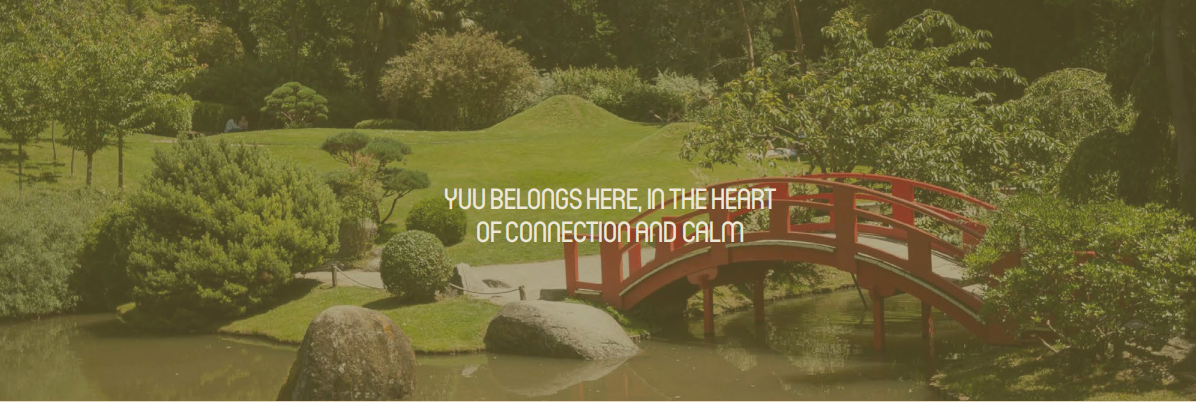
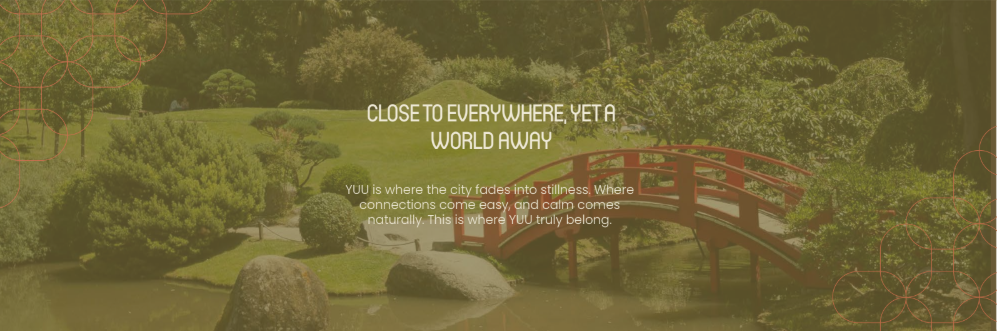
location page done

diff --git a/src/components/Location/index.js b/src/components/Location/index.js
@@ -1,109 +1,159 @@
-import React, { useState, useEffect } from "react";
-
-const heroImages = [
-  "/images/location-banner.png",
-  "/images/Hero.png",
-  "/images/Hero-2.png",
-];
-
-const heroTitles = [
-  "DISCOVER THE WORLD OF YUU",
-  "YUU BY NAHAR",
-  "EXPERIENCE LUXURY LIVING",
-];
+import React from "react";
 
 const HeroCarousel = () => {
-  const [currentIndex, setCurrentIndex] = useState(0);
-
-  // Auto-advance every 5 seconds
-  useEffect(() => {
-    const interval = setInterval(() => {
-      setCurrentIndex((prev) => (prev + 1) % heroImages.length);
-    }, 5000);
-    return () => clearInterval(interval);
-  }, []);
-
-  // Manual pill click
-  const handlePillClick = (idx) => setCurrentIndex(idx);
-
   return (
     <div
-      className="relative w-full h-[70vh] md:h-[80vh] flex items-center justify-center overflow-hidden"
+      className="relative w-full h-[100vh] md:h-[80vh] flex items-center justify-center overflow-hidden"
       style={{
-        backgroundImage: `url(${heroImages[currentIndex]})`,
+        backgroundImage: `url(/images/location-banner.png)`,
         backgroundSize: "cover",
         backgroundPosition: "center",
       }}
     >
       {/* Overlay for better text visibility */}
-      <div className="absolute inset-0 bg-orange-50 bg-opacity-25 z-10" />
-      {/* Title */}
-      <h1
-        className="z-20 text-white text-3xl md:text-5xl font-bold text-center w-full px-4"
-        style={{ letterSpacing: "2px" }}
-      >
-        {heroTitles[currentIndex]}
-      </h1>
-      {/* Pills */}
-      <div className="absolute left-6 bottom-6 flex gap-2 z-20">
-        {heroImages.map((_, idx) => (
-          <button
-            key={idx}
-            className={`w-6 h-2 rounded-full transition-all duration-300 border border-white ${
-              currentIndex === idx ? "bg-white" : "bg-transparent"
-            }`}
-            onClick={() => handlePillClick(idx)}
-            aria-label={`Go to slide ${idx + 1}`}
-          />
-        ))}
+      <div className="absolute inset-0 bg-black bg-opacity-20 z-10" />
+
+      {/* Main content container */}
+      <div className="relative z-20 text-center px-4 max-[768px]:px-6 w-full max-w-6xl mt-[200px]">
+        {/* Main title */}
+        <h1
+          className="text-white text-4xl md:text-6xl lg:text-7xl font-bold mb-4 max-[768px]:text-3xl"
+          style={{ letterSpacing: "3px" }}
+        >
+          YUU BELONG HERE
+        </h1>
+
+        {/* Subtitle */}
+        <p
+          className="text-white text-lg md:text-xl lg:text-2xl mb-8 max-[768px]:text-base"
+          style={{ letterSpacing: "1px" }}
+        >
+          Right Where Calm Meets Connection
+        </p>
+
+        {/* Description box */}
+        <div className="max-w-2xl mt-[150px] mx-auto">
+          <div className="bg-transparent  border border-white border-opacity-30 rounded-full p-6 md:p-8 max-[768px]:p-4">
+            <p className="text-white text-sm md:text-base lg:text-lg leading-relaxed max-[768px]:text-[10px]">
+              At YUU, location goes beyond coordinates. It's that quiet sense of
+              arriving home. Tucked into the evolving heart of Chandivali, YUU
+              is placed just right, close to the action, but far enough to let
+              you breathe.
+            </p>
+          </div>
+        </div>
       </div>
     </div>
   );
 };
 
 const LocationAbout = () => (
-  <section className="relative pb-20 w-full bg-[#fdf7f0] flex flex-row max-[768px]:flex-col items-center justify-between px-4 max-[768px]:px-6 pt-52 max-[768px]:pt-10 max-[768px]:pb-[200px] overflow-visible">
-    {/* Illustration */}
-    <div className="w-2/5 max-[768px]:w-full flex justify-end max-[768px]:justify-center relative  max-[768px]:mt-10">
-      <div className="w-[500px] max-w-[600px] max-[768px]:w-[80vw] max-[768px]:max-w-[400px] relative z-10 -mt-32 max-[768px]:-mt-0">
-        <img
-          src="/images/location-1.png"
-          alt="Location Illustration"
-          className="w-full h-auto rounded-3xl shadow-lg border-4 border-[#f6f2e7] object-cover"
-          style={{ objectFit: "contain" }}
-        />
-      </div>
-    </div>
-    {/* Text Content */}
-    <div className="w-1/2 max-[768px]:w-full z-20">
-      <div className="border-r-4 border-[#a97c6d] pl-8 max-[768px]:pl-4">
+  <section className="relative w-full bg-[#fdf7f0] flex flex-row max-[768px]:flex-col items-center justify-between px-8 max-[768px]:px-6 py-16 max-[768px]:py-10">
+    {/* Text Content - Left Side */}
+    <div className="w-1/2 max-[768px]:w-full z-20 pr-8 max-[768px]:pr-0 max-[768px]:mb-8">
+      <div className="max-w-lg">
+        {/* Main Heading */}
         <h2
-          className="text-[#7a4c3b] text-3xl max-[768px]:text-2xl font-semibold mb-4"
+          className="text-[#ff6b35] text-4xl max-[768px]:text-3xl font-bold mb-6 leading-tight"
           style={{ fontFamily: "Montserrat, sans-serif", letterSpacing: "1px" }}
         >
-          YUU BELONGS HERE, IN THE HEART <br />
-          OF CONNECTION AND CALM
+          EVERYTHING YOU NEED,
+          <br />
+          JUST AROUND YUU
         </h2>
+
+        {/* First Paragraph */}
         <p
-          className="text-[#513335] text-sm text-justify pr-5 max-[768px]:text-sm mb-4"
+          className="text-[#333] text-base max-[768px]:text-sm leading-relaxed mb-6"
           style={{ fontFamily: "Montserrat, sans-serif" }}
         >
-          At YUU, location is more than geography , it’s a feeling of arrival.
-          Tucked within the evolving landscape of Chandivali, YUU is
-          strategically placed at the intersection of connectivity, community,
-          and culture. A short drive from the bustle of Powai, Andheri, and BKC;
-          and yet thoughtfully distanced from the noise ,this is where the city
-          slows down just enough to breathe.
+          Life flows easily here, whether it's a quick coffee
           <br />
-          <br /> Surrounded by a thriving township ecosystem built by Nahar
-          Group, and seamlessly connected to Mumbai’s most vital arteries, YUU
-          is not just well-placed, it’s perfectly positioned for the modern
-          urban lifestyle.
+          run, your morning commute, or a weekend
           <br />
-          <br /> Whether you’re stepping out for work, a quick coffee, or a
-          weekend stroll, everything you need is intuitively close. Because YUU
-          isn’t just a place you live, it’s where your life flows.
+          stroll. YUU keeps you close to what matters, so you
+          <br />
+          can spend less time traveling and more time
+          <br />
+          living.
         </p>
+
+        {/* Second Paragraph */}
+        <p
+          className="text-[#333] text-base max-[768px]:text-sm leading-relaxed"
+          style={{ fontFamily: "Montserrat, sans-serif" }}
+        >
+          You're a short drive from Powai, Andheri, BKC and
+          <br />
+          Mumbai's busiest hubs, but once you're home, the
+          <br />
+          city slows down just for YUU.
+        </p>
+      </div>
+    </div>
+
+    {/* 3D Architectural Rendering - Right Side */}
+    <div className="w-1/2 max-[768px]:w-full flex justify-center max-[768px]:justify-center ">
+      <div className="w-[600px] max-w-[700px] max-[768px]:w-[90vw] max-[768px]:max-w-[500px] relative">
+        {/* Organic rounded shape container */}
+        <div className="">
+          <img
+            src="/images/location-about.png"
+            alt="3D Architectural Rendering of YUU Buildings"
+            className="w-full h-auto object-contain relative left-[90px] max-[768px]:left-[20px]"
+          />
+        </div>
+      </div>
+    </div>
+  </section>
+);
+
+const DistanceMap = () => (
+  <section className="relative w-[100%] h-[100vh] max-[768px]:h-[60vh]">
+    {/* Background Image */}
+    <div
+      className="  w-full h-[100vh]"
+      style={{
+        backgroundImage: `url(/images/distance-about.png)`,
+        backgroundSize: "cover",
+        // backgroundPosition: "center",
+      }}
+    >
+      {/* Overlay for better text visibility */}
+      <div className="absolute inset-0 bg-black bg-opacity-10" />
+    </div>
+
+    {/* Proximity Markers */}
+
+    {/* Walking Distance Amenities - Left Side */}
+    <div className="absolute left-8 bottom-20 max-[768px]:left-4 max-[768px]:bottom-16 z-20">
+      <div className="p-4 max-[768px]:p-3 shadow-lg">
+        <h4 className="text-[#fff] text-lg max-[768px]:text-base font-bold mb-3">
+          WALKING DISTANCE FROM
+        </h4>
+        <div className="space-y-2">
+          <div
+            className="px-3 py-5 text-white rounded-full bg-transparent border border-white mt-5"
+            style={{ marginBottom: "30px" }}
+          >
+            <p className="text-[#fff] text-sm max-[768px]:text-xs font-semibold">
+              Nahar International School
+            </p>
+          </div>
+          <div
+            className="px-3 py-5 text-white rounded-full bg-transparent border border-white"
+            style={{ marginBottom: "30px" }}
+          >
+            <p className="text-[#fff] text-sm max-[768px]:text-xs font-semibold">
+              Nahar Medical Centre
+            </p>
+          </div>
+          <div className="px-3 py-5 text-white rounded-full bg-transparent border border-white">
+            <p className="text-[#fff] text-sm max-[768px]:text-xs font-semibold">
+              Nahar Business Centre
+            </p>
+          </div>
+        </div>
       </div>
     </div>
   </section>
@@ -112,34 +162,31 @@ const LocationAbout = () => (
 const ConnectYou = () => {
   return (
     <>
-      <section className="relative w-full bg-[#f7ce9f] flex flex-row max-[768px]:flex-col items-center  px-4 max-[768px]:px-6  max-[768px]:pt-10 pb-10 overflow-visible mt-0">
+      <section className="relative w-full bg-[#eee9d6] flex flex-row max-[768px]:flex-col items-center py-4 px-4 max-[768px]:px-6  max-[768px]:pt-10 pb-10 overflow-visible mt-0">
         {/* Text Content */}
         <div className="w-1/2 max-[768px]:w-full z-20 flex  justify-center">
           <div className="max-w-xl">
-            <h2
-              className="text-[#7a4c3b] text-2xl max-[768px]:text-xl font-semibold mb-2"
+            <h3
+              className="max-[768px]:text-xl font-semibold mb-2"
               style={{
                 fontFamily: "Montserrat, sans-serif",
                 letterSpacing: "1px",
               }}
             >
-              WHAT YUU CONNECTS YOU TO:
-            </h2>
-            <ul className="text-[#513335] text-base text-sm mb-4"
-              style={{ fontFamily: "Montserrat, sans-serif" }}>
-                <li className="mb-4"><strong>• 5 mins to Saki Naka Metro Station</strong> <br/><span className="text-[12px] pl-3">2 km | 15 mins east</span></li>
-                <li className="mb-4">• 5 mins to Powai Lake & Hiranandani Business Park</li>
-                <li className="mb-4">• 5 mins to IIT and IIM Mumbai campuses</li>
-                <li className="mb-4">• 20 mins to BKC, JVLR & Western Express Highway</li>
-                <li className="mb-4">• Walking distance from Nahar International School, Nahar 
-                Medical Centre and Nahar Business Centre</li>
-                <li className="mb-4">• Surrounded by a vibrant community of professionals, 
-                creatives & young families</li>
-            </ul>
+              Part of a Thoughtfully
+              <br />
+              Built Community
+            </h3>
+            <p className="text-[#513335] text-base mb-4">
+              YUU is part of a larger story, the one<br/> that the Nahar Group has
+              been<br/> shaping for years in Chandivali. Here,<br/> you’re surrounded by
+              everything that<br/> makes daily life smoother, warmer,<br/> and more
+              balanced.
+            </p>
           </div>
         </div>
-         {/* Image */}
-         <div className="w-2/5 max-[768px]:w-full flex justify-end max-[768px]:justify-center relative max-[768px]:mt-10">
+        {/* Image */}
+        <div className="w-2/5 max-[768px]:w-full flex justify-end max-[768px]:justify-center relative max-[768px]:mt-10">
           <div className="w-[400px] max-w-[500px] max-[768px]:w-[90vw] max-[768px]:max-w-[350px] relative bottom-[60px] max-[768px]:pt-5 z-10  max-[768px]:-mt-0">
             <img
               src="/images/location-map.png"
@@ -153,23 +200,28 @@ const ConnectYou = () => {
   );
 };
 
-const YuuBelongs =() => {
-    return(
-        <>
-            <section className="relative w-full h-[70vh] md:h-[80vh] flex items-center justify-center overflow-hidden">
-                <img src="/images/location-2.png" alt="location-image" className="relative w-full h-[70vh] md:h-[80vh]"/>
-            </section>
-        </>
-    )
-}
+const YuuBelongs = () => {
+  return (
+    <>
+      <section className="relative w-full h-[70vh] md:h-[80vh] flex items-center justify-center overflow-hidden">
+        <img
+          src="/images/location-2.png"
+          alt="location-image"
+          className="relative w-full h-[70vh] md:h-[80vh]"
+        />
+      </section>
+    </>
+  );
+};
 
 const Location = () => {
   return (
     <>
       <HeroCarousel />
       <LocationAbout />
-      <ConnectYou/>
-      <YuuBelongs/>
+      <DistanceMap />
+      <ConnectYou />
+      <YuuBelongs />
     </>
   );
 };

diff --git a/src/components/layouts/master/footer.js b/src/components/layouts/master/footer.js
@@ -43,7 +43,20 @@ const Footer = () => {
           {/* Stay Connected Section */}
           <div className="space-y-4">
             <h2 className="text-xl font-semibold text-[#333333]">Stay Connected</h2>
-            <input type="email" className="py-4 px-3 rounded-full" placeholder="Email"/>
+            <div className="flex items-center">
+              <input 
+                type="email" 
+                className="flex-1 py-2 px-6 rounded-l-full rounded-r-full border-0 focus:outline-none focus:ring-2 focus:ring-[#a97c6d] placeholder-gray-400"
+                placeholder="Email"
+                style={{ backgroundColor: '#ffffff' }}
+              />
+              <button 
+                className="py-2 px-8 rounded-r-full rounded-l-full text-white font-semibold transition-colors duration-200 hover:bg-[#8b5a3d] border-l-0"
+                style={{ backgroundColor: '#c46c4a',position:"relative",right:"10%" }}
+              >
+                Submit
+              </button>
+            </div>
           </div>
         </div>
       </div>
